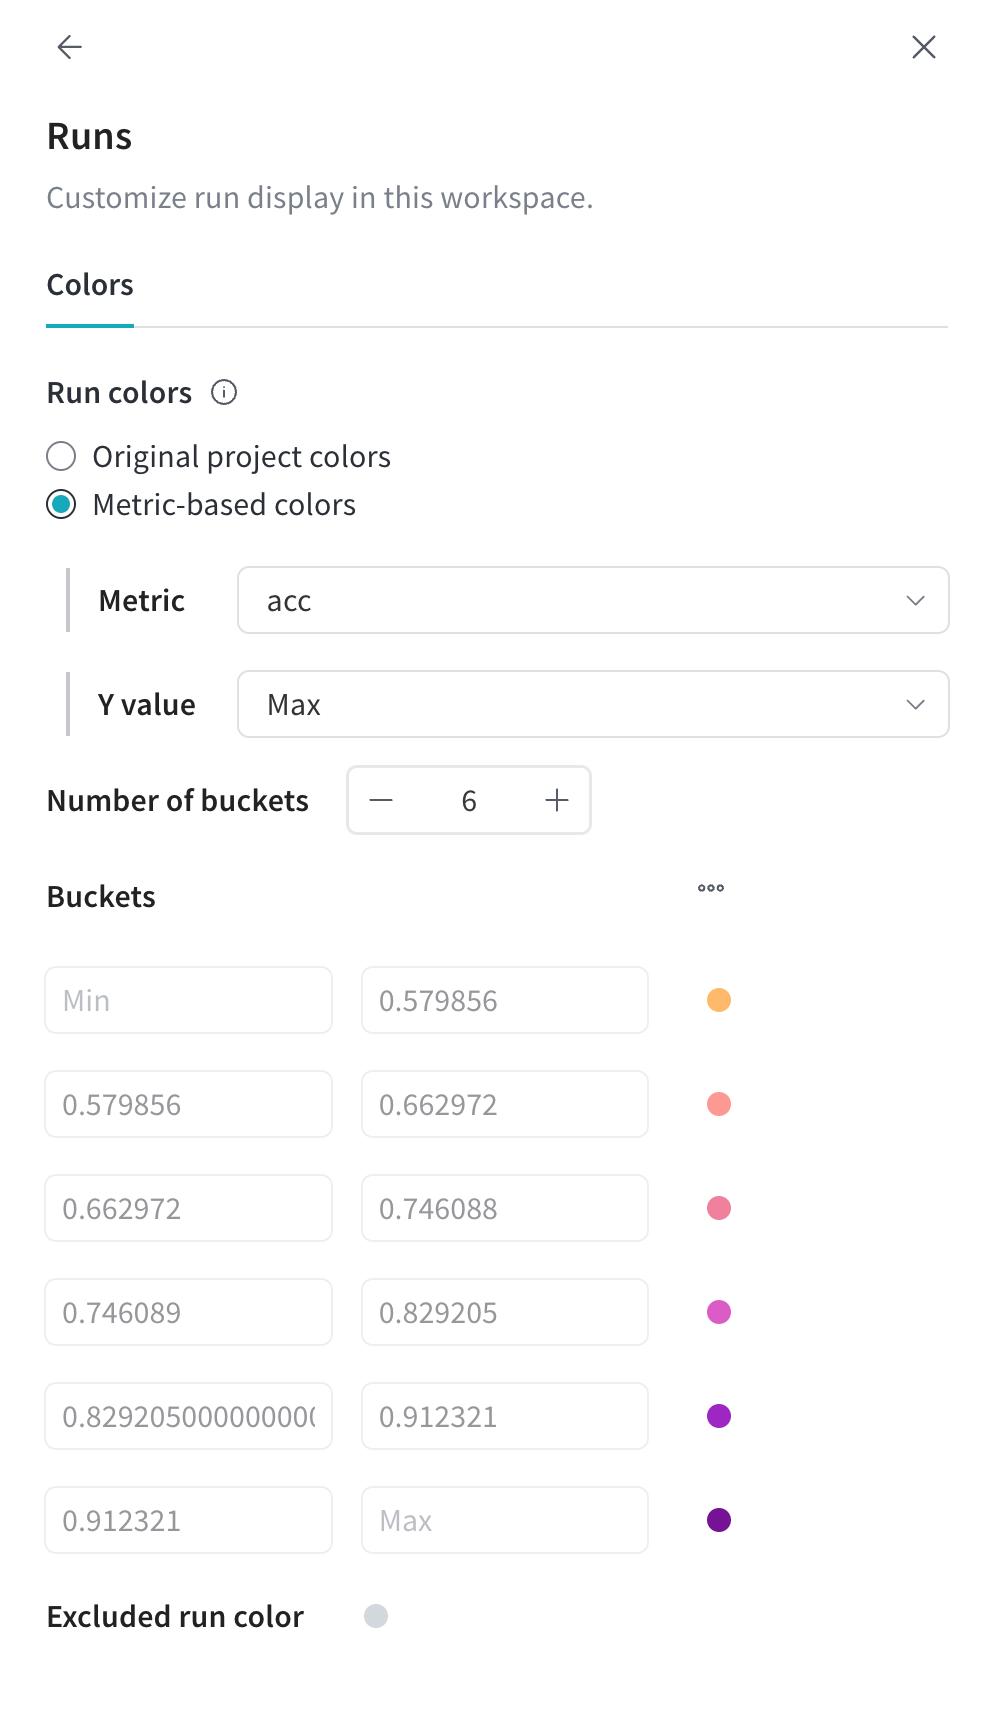
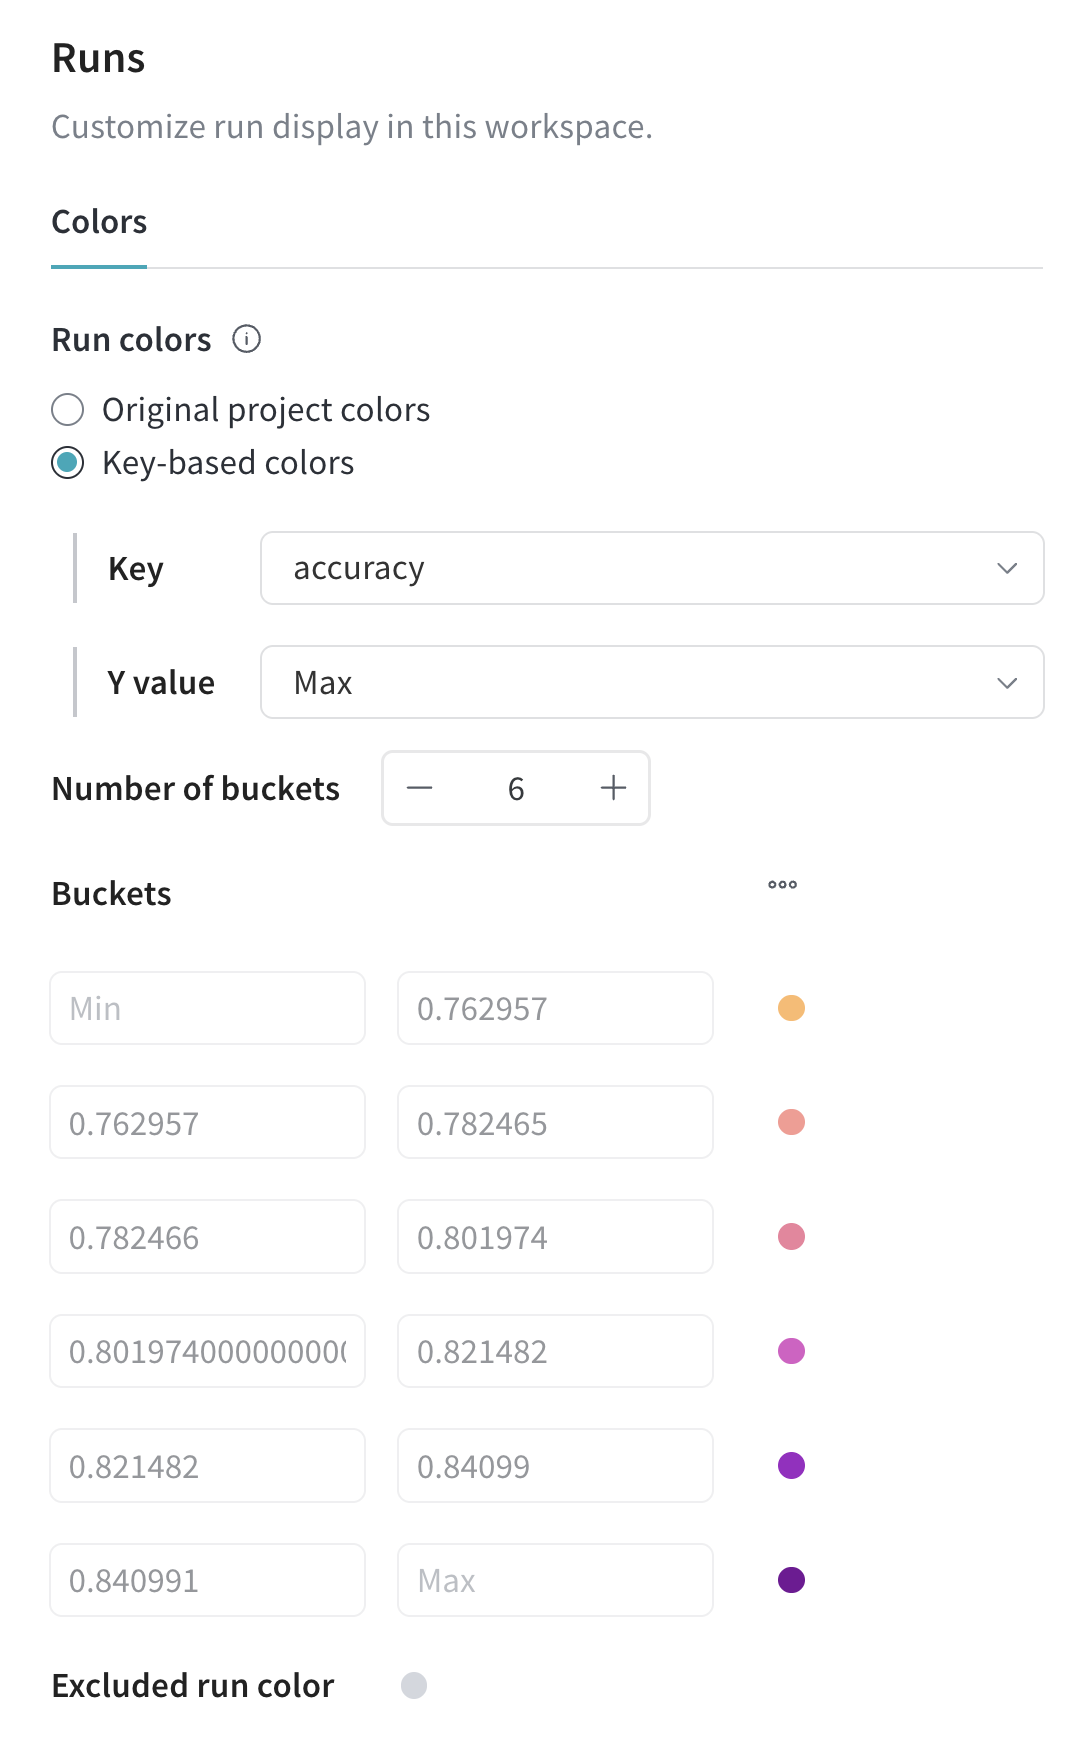
update semantic colors

diff --git a/content/en/guides/models/track/runs/color-code-runs.md b/content/en/guides/models/track/runs/color-code-runs.md
@@ -7,23 +7,23 @@ menu:
 title: Semantic run plot legends
 ---
 
-Create meaningful legends for run line plots to visually distinguish them based on metrics you log to W&B. Identify trends and patterns based on the highest, lowest, or latest values of a metric across your training and evaluation runs. Runs are bucketed and colored in plots based on the plot's configured metric, Y value, and number of buckets. 
+Create meaningful legends for line plots to visually distinguish them based on a metric or run configuration you log to W&B. Identify trends and patterns based on the highest, lowest, or latest values of a metric key-value or run configuration's key-value pairs across your training and evaluation runs. Runs are bucketed and colored based on the plot's defined metric key-value or run configuration key-value pair, Y value, and number of buckets. 
 
-Navigate to your workspace's settings page to configure the metric-based colors for runs:
+Navigate to your workspace's settings page to configure metric or configuration-based colors for runs:
 
 1. Navigate to your W&B project.
 2. Select the **Workspace** tab from the project sidebar.
 3. Click on the **Settings** icon (⚙) in the top right corner.
-4. From the drawer, select **Runs** then select **Metric-based colors**.
-    - From the **Metric** dropdown, select the metric you want to use for assigning colors to runs.
+4. From the drawer, select **Runs** then select **Key-based colors**.
+    - From the **Key** dropdown, select the metric you want to use for assigning colors to runs.
     - From the **Y value** dropdown, select the y value you want to use for assigning colors to runs.
     - Set the the number of buckets to a value from 2 to 8.
 
 The following sections describe how to set the metric and y value and as how to customize the buckets used for assigning colors to runs.
 
-## Configure a metric
+## Set a metric
 
-The options in your **Metric** dropdown are derived from the key-value pairs [you log to W&B]({{< relref "guides/models/track/runs/color-code-runs/#custom-metrics" >}}) and [default metrics]({{< relref "guides/models/track/runs/color-code-runs/#default-metrics" >}}) defined by W&B.
+The metric options in your **Key** dropdown are derived from the key-value pairs [you log to W&B]({{< relref "guides/models/track/runs/color-code-runs/#custom-metrics" >}}) and [default metrics]({{< relref "guides/models/track/runs/color-code-runs/#default-metrics" >}}) defined by W&B.
 
 ### Default metrics
 
@@ -55,9 +55,29 @@ with wandb.init(project="basic-intro") as run:
       run.log({"acc": acc, "loss": loss})
 ```
 
-Within the **Metric** dropdown, both `"acc"` and `"loss"` are available options.
+Within the **Key** dropdown, both `"acc"` and `"loss"` are available options.
 
-## Configure a y value
+## Set a configuration key
+
+The configuration options in your **Key** dropdown are derived from the key-value pairs you pass to the `config` parameter when you initialize a W&B run. Configuration keys are typically used to log hyperparameters or other settings used in your training or evaluation scripts.
+
+```python
+import wandb
+
+config = {
+  "learning_rate": 0.01,
+  "batch_size": 32,
+  "optimizer": "adam"
+}
+
+with wandb.init(project="basic-intro", config=config) as run:
+  # Your training code here
+  pass
+```
+
+Within the **Key** dropdown, `"learning_rate"`, `"batch_size"`, and `"optimizer"` are available options.
+
+## Set a y value
 
 You can choose from the following options:
 
@@ -67,26 +87,26 @@ You can choose from the following options:
 
 ## Customize buckets
 
-Buckets are ranges of values that W&B uses to categorize runs based on the metric you select. Buckets are evenly distributed across the range of values for the specified metric and each bucket is assigned a unique color. Runs that fall within that bucket's range are displayed in that color. 
+Buckets are ranges of values that W&B uses to categorize runs based on the metric or configuration key you select. Buckets are evenly distributed across the range of values for the specified metric or configuration key and each bucket is assigned a unique color. Runs that fall within that bucket's range are displayed in that color. 
 
-Consider the following configuration:
+Consider the following:
 
 {{< img src="/images/track/color-coding-runs.png" alt="" >}}
 
-- **Metric** is set to `"Accuracy"` (abbreviated as `"acc"`).
+- **Key** is set to `"Accuracy"` (abbreviated as `"acc"`).
 - **Y value** is set to `"Max"`
 
-With this configuration, W&B colors run based on their accuracy values, using the maximum accuracy value logged for each run. 
+With this set up, W&B colors run based on their accuracy values, using the maximum accuracy value logged for each run. 
 
 Six buckets are defined for the metric, with each bucket representing a range of accuracy values. Within the **Buckets** section, the following range of buckets are defined:
 
-- Bucket 1: (Min - 0.5798)
-- Bucket 2: (0.5798 - 0.6629)
-- Bucket 3: (0.6629 - 0.7460)
-- Bucket 4: (0.7460 - 0.8292)
-- Bucket 5: (0.8292 - 0.9123)
-- Bucket 6: (0.9123 - Max)
+- Bucket 1: (Min - 0.7629)
+- Bucket 2: (0.7629 - 0.7824)
+- Bucket 3: (0.7824 - 0.8019)
+- Bucket 4: (0.8019 - 0.8214)
+- Bucket 5: (0.8214 - 0.8409)
+- Bucket 6: (0.8409 - Max)
 
-In the line plot below, the run with the highest accuracy (0.957) is colored in a deep purple (Bucket 6), while the run with the lowest accuracy (0.7993) is colored in a lighter purple (Bucket 4). The other runs are colored based on their accuracy values, with the color gradient indicating their relative performance. 
+In the line plot below, the run with the highest accuracy (0.8232) is colored in a deep purple (Bucket 5), while the run with the lowest accuracy (0.7684) is colored in a light orange (Bucket 2). The other runs are colored based on their accuracy values, with the color gradient indicating their relative performance. 
 
 {{< img src="/images/track/color-code-runs-plot.png" alt="Line plot with color coded runs based on a specific metric" >}}
